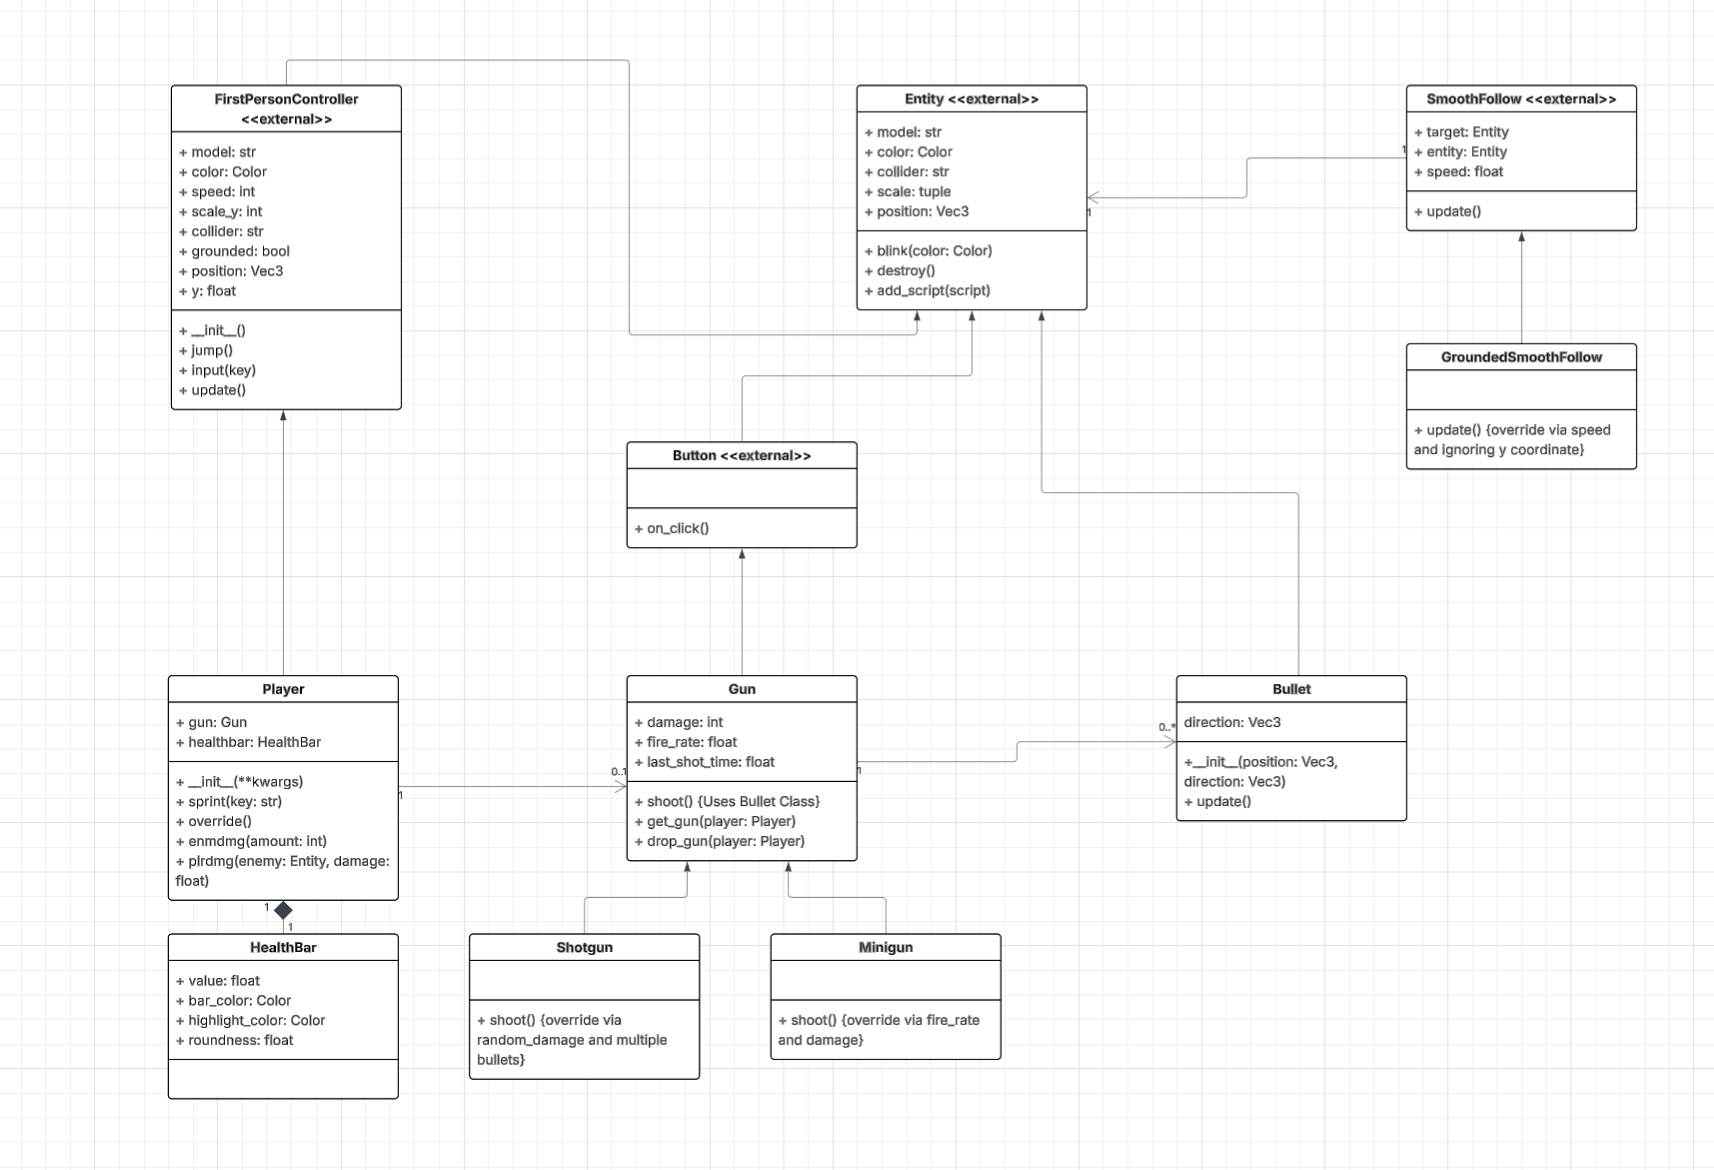
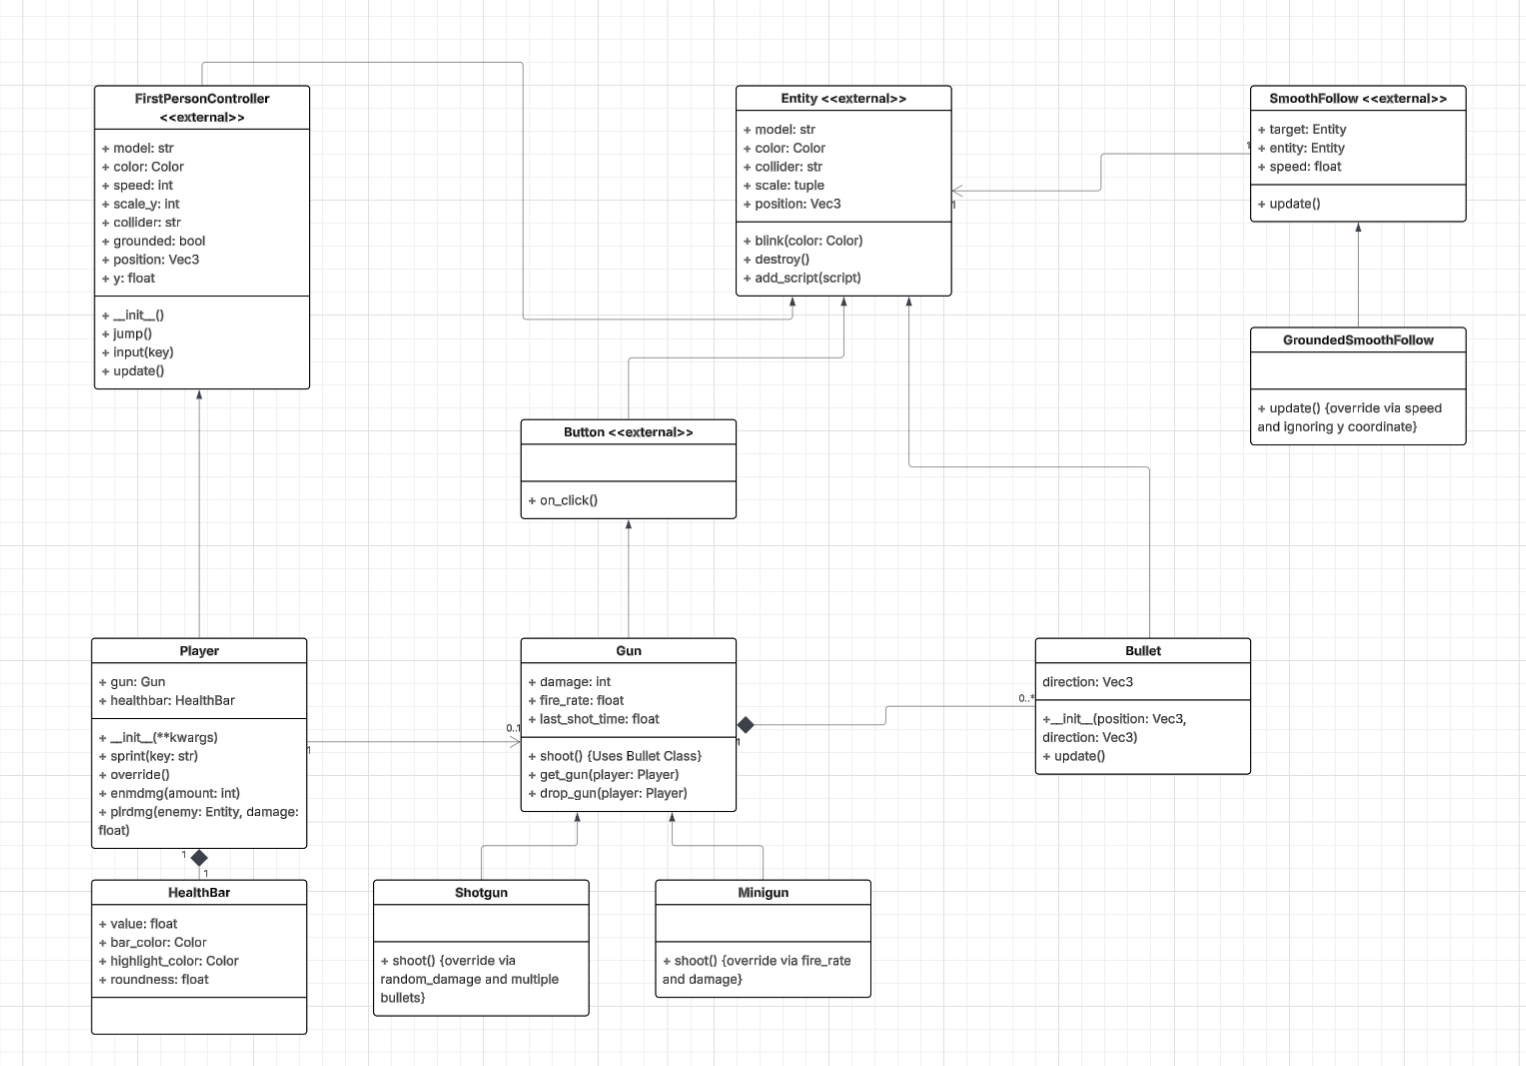
FINAL COMMIT
A few last minute changes before submission, had to change the Bullet to a composition of Gun, and format my documentation file properly.

diff --git a/PROJECT_DOCUMENTATION.md b/PROJECT_DOCUMENTATION.md
@@ -300,7 +300,6 @@ BEGIN SUBROUTINE get_gun(player, gun)
         PRINT "Error getting gun: " + e
     ENDTRY
 END SUBROUTINE get_gun(player, gun)
-
 ```
 ***
 - Pseudocode for 2nd Subroutine: Sprint(player, key)
@@ -523,7 +522,7 @@ class GroundedSmoothFollow(SmoothFollow):
         except Exception as e:
             print(f"Error in GroundedSmoothFollow update method: {e}")
 ```
-
+***
 - Sprint2.py
 ```python
 from ursina import * # Ursina Library
@@ -682,7 +681,6 @@ def instructions():
 app = Ursina(fullscreen=True)
 menu(start_game, survival_game, instructions)
 app.run()
-
 ```
 ***
 ## Review
